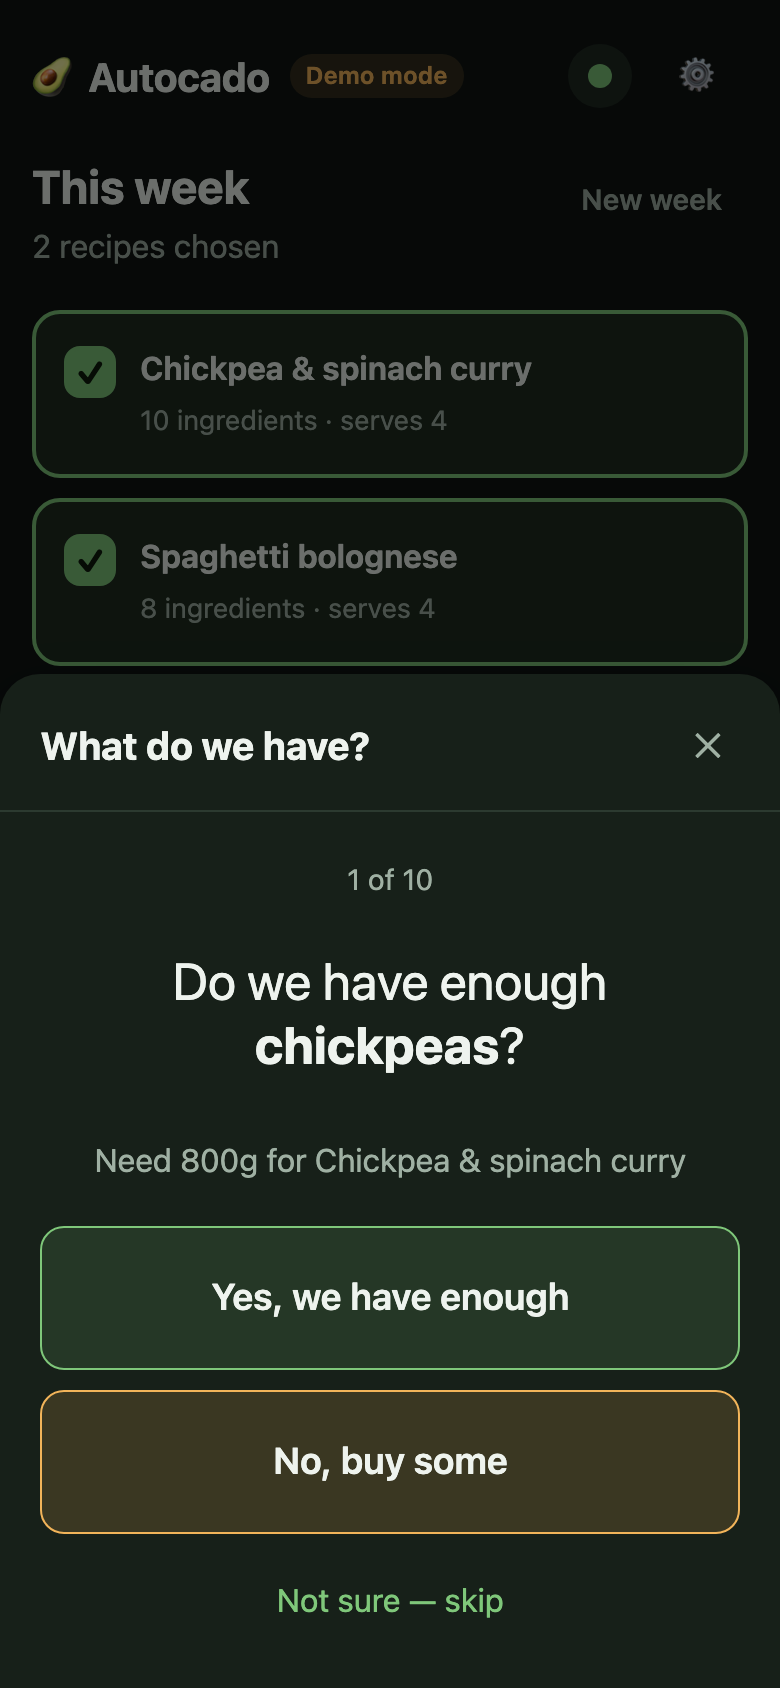
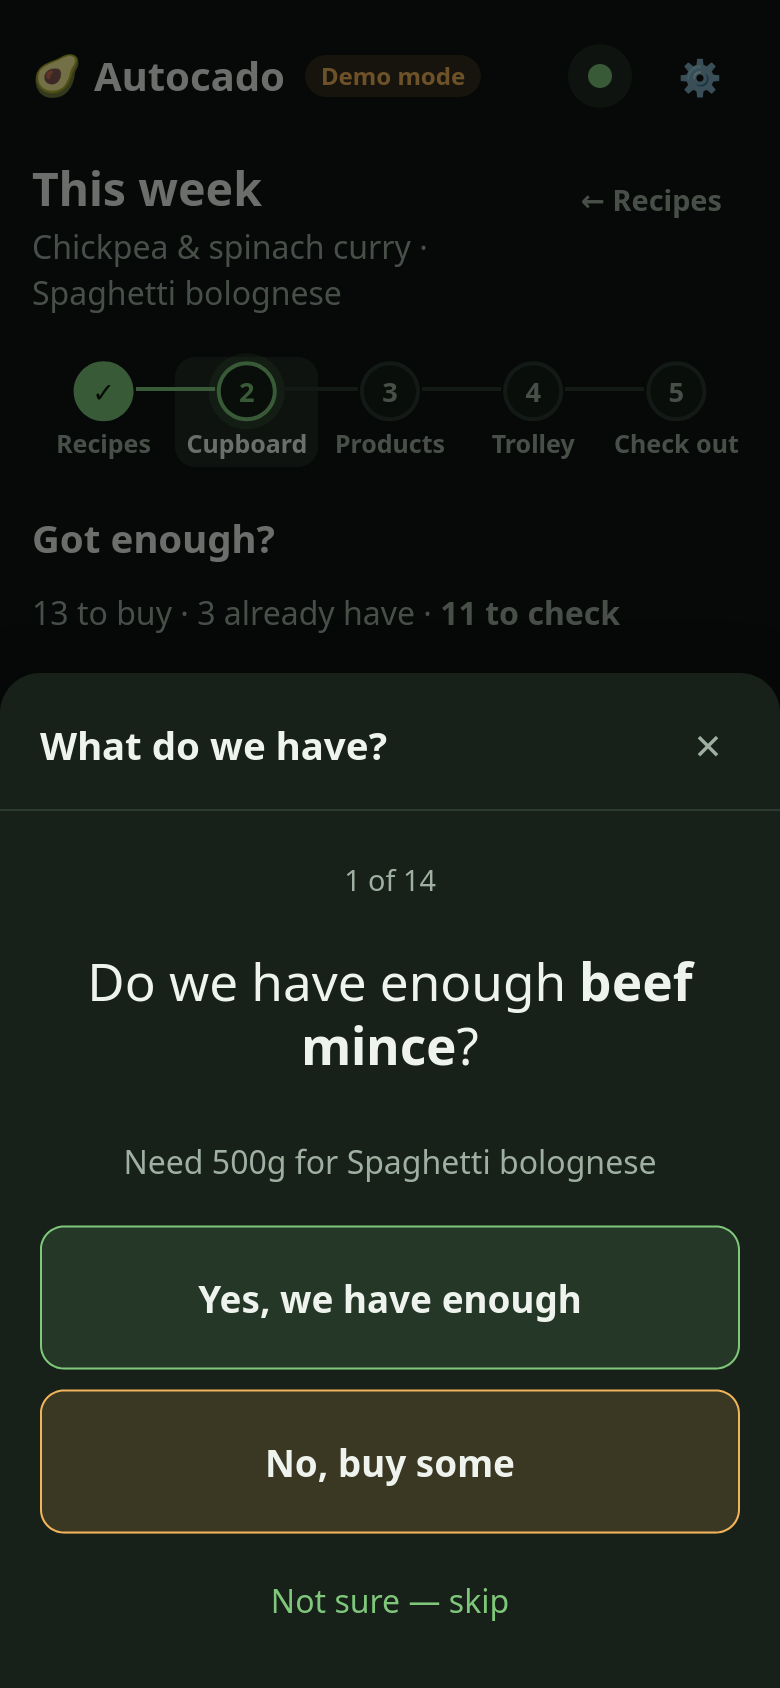
Update the README for weeks, the shop journey and favourites
New screenshots of the cupboard step, the basket and the phone check, taken
from the demo. The text covers syncing all Ocado favourites, picking recipe
photos from a phone's library, and reloading the add-on after an update.
Also fixes the link to the permanent add-on install.

diff --git a/README.md b/README.md
@@ -2,7 +2,7 @@
 
 **Plan the week's meals, tick off what's already in the cupboard, and Autocado fills your Ocado trolley for you, choosing organic, your favourites and the products you usually buy.** You still check out on Ocado yourself: Autocado never places an order or pays for anything.
 
-![Autocado's "This week" screen: recipes chosen for the week and the shopping list they make](docs/images/week.png)
+![Autocado checking the cupboard: the shopping list two recipes make, with "Got it" or "Buy" for each item, and a step bar from recipes to checkout](docs/images/week.png)
 
 > **Unofficial.** Autocado isn't made by, affiliated with or endorsed by Ocado. It uses your own Ocado account the way the Ocado website does, which may go against Ocado's terms, and it can break whenever Ocado changes its site. It's for your own household shopping, at your own risk.
 
@@ -13,11 +13,11 @@
 - **Needed:** note anything that's run out. It goes into the next shop.
 - **Basket:** matches every item to an Ocado product (your usual, then a favourite, then organic). Swap anything you like, then it fills your real Ocado trolley, adding only what isn't already there. It also shows what's in your trolley right now.
 - **Weeks:** Autocado notices when you've checked out on Ocado and files the week, with what you cooked and bought. Shop a past week again, then swap meals in and out to keep it varied.
-- **Favourites:** star products and see which ones are on offer.
-- **Recipes:** add them from a web link, pasted text, a photo of a cookbook page, or by typing.
+- **Favourites:** all your Ocado favourites sync in with today's prices, and the ones on offer are picked out. Star a product in Autocado and it's starred on Ocado too.
+- **Recipes:** add them from a web link, pasted text, a photo of a cookbook page (taken there and then, or from your photos), or by typing.
 - **Any screen:** laptop, phone, tablet or kitchen mirror. Every open screen updates live.
 
-![The Basket screen: your live Ocado trolley, and a list being added to it](docs/images/basket.png)
+![The Basket screen: every item matched to an Ocado product, ready to add to your trolley](docs/images/basket.png)
 
 ## What you need
 
@@ -48,7 +48,7 @@ Open **http://localhost:3456** in your browser. Leave the terminal open: that's 
 Ocado only trusts real browsers, so Autocado uses your Ocado account through a small Firefox add-on. This is what makes it reliable.
 
 - **Easiest:** if the [Releases page](https://github.com/helloscottamos/autocado/releases) has a file ending in `.xpi`, open it in Firefox and click **Add**. It stays installed.
-- **Otherwise:** in Firefox, type `about:debugging#/runtime/this-firefox` in the address bar, click **Load Temporary Add-on…** and choose `addon/manifest.json` from the Autocado folder. This lasts until Firefox restarts. [Permanent install instructions](docs/firefox-addon.md#install-permanently-free-about-10-minutes-once).
+- **Otherwise:** in Firefox, type `about:debugging#/runtime/this-firefox` in the address bar, click **Load Temporary Add-on…** and choose `addon/manifest.json` from the Autocado folder. This lasts until Firefox restarts. [Permanent install instructions](docs/firefox-addon.md#install-permanently).
 
 ### 3. Connect to Ocado
 
@@ -66,7 +66,7 @@ Check the **Search for** column: that's what gets looked up on Ocado, so keep it
 
 1. **This week:** tap the recipes you're cooking, then **Check the cupboard**.
 2. Tap **Check what we have** and answer each question.
-3. **Find products on Ocado.** Look over the matches and tap **Swap** for anything you'd change.
+3. Tap **Find products on Ocado**. Look over the matches and tap **Swap** for anything you'd change.
 4. Tap **Add to Ocado trolley**.
 5. Open Ocado, check the trolley, book a delivery slot and pay as normal.
 
@@ -88,7 +88,7 @@ Open **http://localhost:3457** for a fake catalogue and trolley with some sample
 
 ## Use it on your phone
 
-<img src="docs/images/phone-check.png" alt="Autocado on a phone, asking 'Do we have enough chickpeas?'" width="300" align="right">
+<img src="docs/images/phone-check.png" alt="Autocado on a phone, asking 'Do we have enough beef mince?'" width="300" align="right">
 
 By default only the computer running Autocado can open it. To use it from phones and tablets on your home Wi-Fi:
 
@@ -117,7 +117,10 @@ Autocado is using its own sign-in and Ocado's bot check has gone stale. Open Fir
 On your computer, in the `data/` folder. Nothing is sent anywhere except Ocado and, if you add a key, Anthropic (only the recipes you import). **Settings → Reset all data** clears it all; you type `confirm` to go ahead.
 
 **It stopped working.**
-Ocado may have changed its website. Update with `git pull && npm install`, restart, and if it's still broken, [open an issue](https://github.com/helloscottamos/autocado/issues).
+Ocado may have changed its website. Update with `git pull && npm install`, restart Autocado, and reload the add-on (see below). If it's still broken, [open an issue](https://github.com/helloscottamos/autocado/issues).
+
+**I've updated Autocado. Do I need to do anything in Firefox?**
+If you loaded the add-on from the Autocado folder, reload it: open `about:debugging#/runtime/this-firefox` and click **Reload** next to **Autocado for Ocado**. Updates sometimes let the add-on make a new request, and the old copy refuses it. For example, an add-on older than 0.1.1 can only read your first 300 Ocado favourites.
 
 ## More detail
 

diff --git a/docs/firefox-addon.md b/docs/firefox-addon.md
@@ -29,7 +29,7 @@ If there's no release file, or you've changed the add-on, sign your own copy. Fi
    WEB_EXT_API_KEY="user:12345:678" WEB_EXT_API_SECRET="your-secret" npm run addon:sign
    ```
 
-   After a minute or two the signed file appears in `dist/` (for example `dist/autocado_for_ocado-0.1.0.xpi`).
+   After a minute or two the signed file appears in `dist/` (for example `dist/autocado_for_ocado-0.1.1.xpi`).
 4. In Firefox, open `about:addons` → ⚙ → **Install Add-on From File…** and choose that `.xpi`.
 
 If you change the add-on later, bump `version` in `addon/manifest.json` and sign again.
